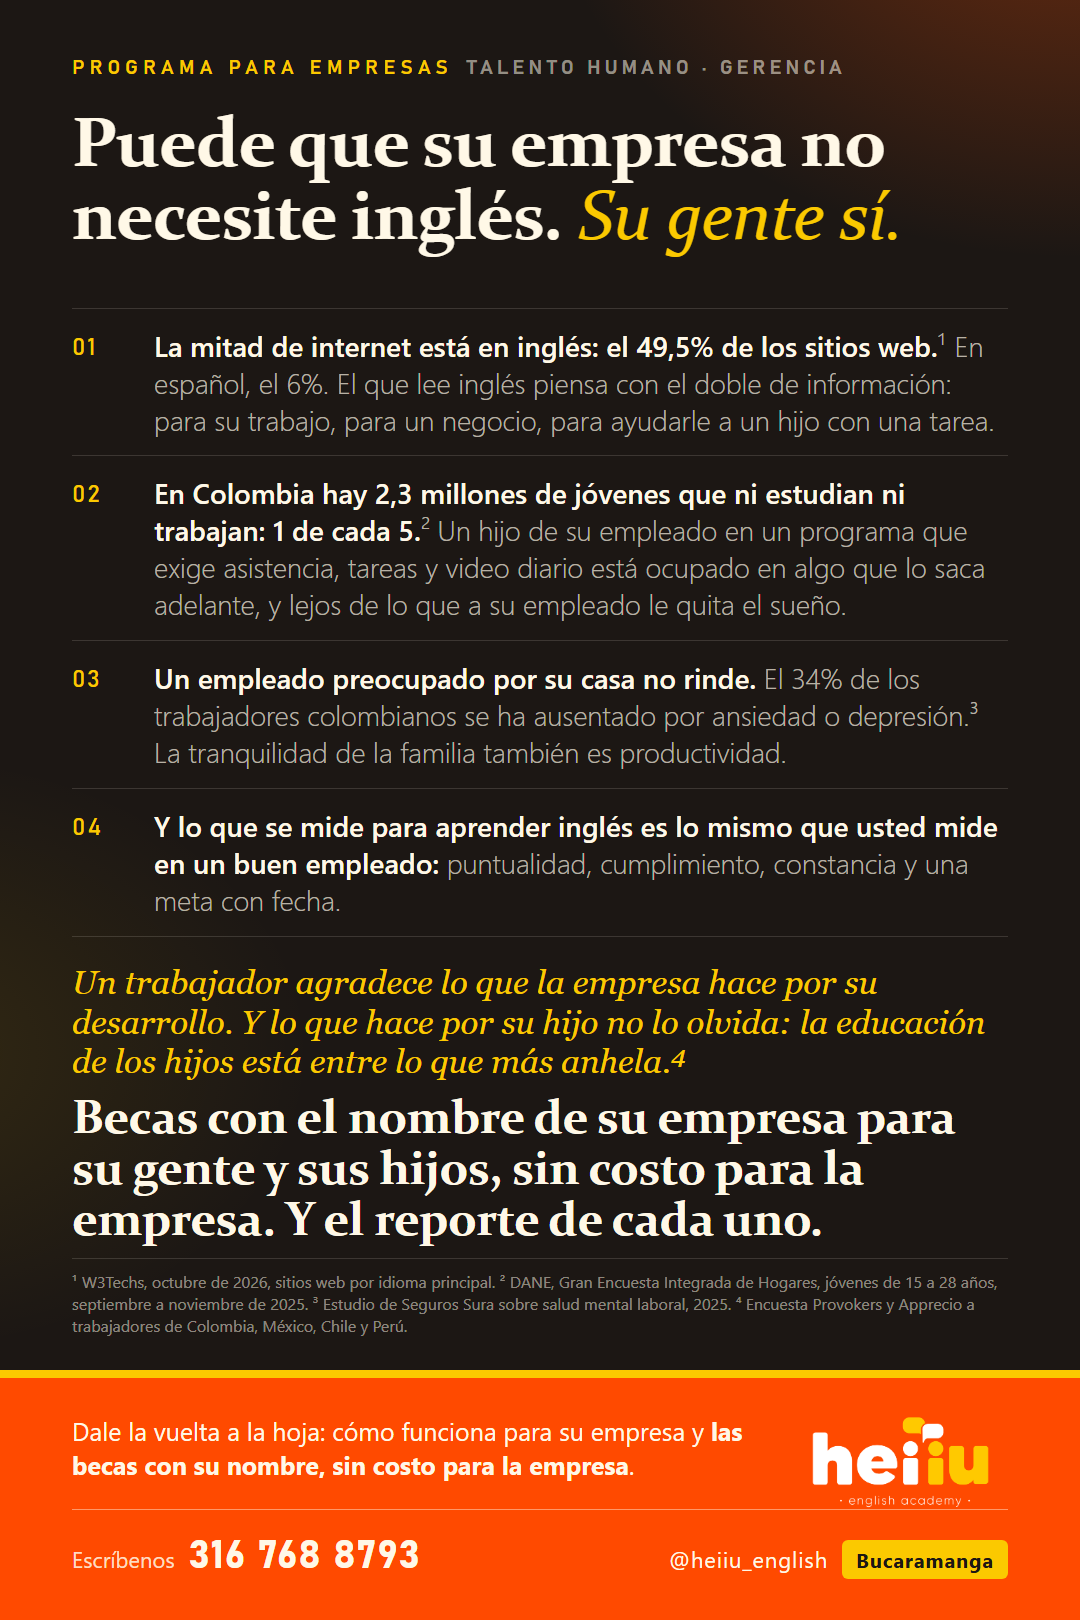
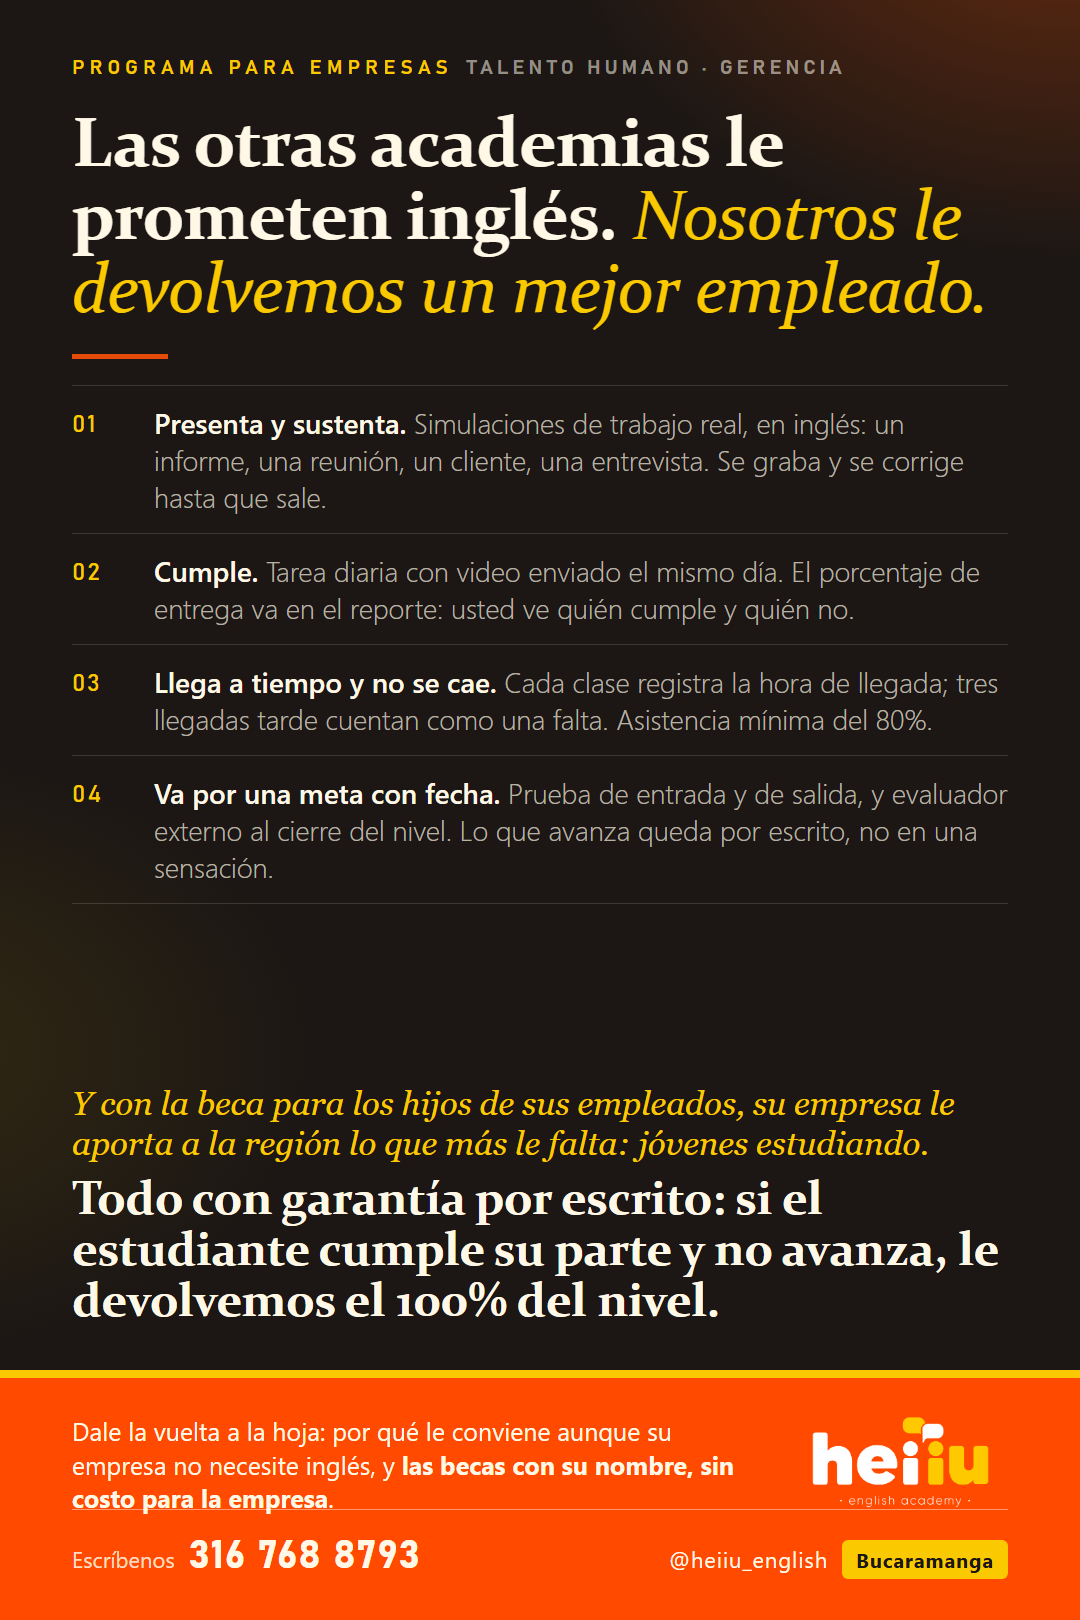
Pieza empresas volteada: frente = le devolvemos un mejor empleado (4 competencias medibles, beca para hijos aporta a la region, garantia); respaldo = por que le conviene aunque no necesite ingles (datos con fuente, gratitud, trato); copia a John tolera archivo abierto

diff --git a/generadores/comercial/gen_piezas_conciencia.py b/generadores/comercial/gen_piezas_conciencia.py
@@ -237,33 +237,32 @@ PIEZAS = {
              ('PARA TU EMPRESA', 'Becas con el nombre de la clínica, el consultorio o la empresa para su equipo, <b>sin costo para la empresa</b>. Pregunta por el programa de alianzas.', False)],
         band='Grupos para equipos o programa individual. <b>Escríbenos y agenda tu asesoría.</b>',
         band_px=290),
-    'EMPRESAS_FRENTE': dict(   # pedido del gerente de alianzas 25/10/2026; angulo de gerencia: bienestar del empleado y su familia, que vuelve a la empresa; de usted
+    'EMPRESAS_FRENTE': dict(   # tesis del gerente de alianzas (25/10/2026): le devolvemos un mejor empleado, y se lo demostramos; de usted
         compact=True, label='PROGRAMA PARA EMPRESAS', sub='TALENTO HUMANO · GERENCIA',
-        h1='Puede que su empresa no necesite inglés. <em>Su gente sí.</em>',
-        st=[('<b>La mitad de internet está en inglés: el 49,5% de los sitios web.</b>¹ En español, el 6%. El que lee inglés piensa con el doble de información: para su trabajo, para un negocio, para ayudarle a un hijo con una tarea.'),
-            ('<b>En Colombia hay 2,3 millones de jóvenes que ni estudian ni trabajan: 1 de cada 5.</b>² Un hijo de su empleado en un programa que exige asistencia, tareas y video diario está ocupado en algo que lo saca adelante, y lejos de lo que a su empleado le quita el sueño.'),
-            ('<b>Un empleado preocupado por su casa no rinde.</b> El 34% de los trabajadores colombianos se ha ausentado por ansiedad o depresión.³ La tranquilidad de la familia también es productividad.'),
-            ('<b>Y lo que se mide para aprender inglés es lo mismo que usted mide en un buen empleado:</b> puntualidad, cumplimiento, constancia y una meta con fecha.')],
-        lead='Un trabajador agradece lo que la empresa hace por su desarrollo. Y lo que hace por su hijo no lo olvida: la educación de los hijos está entre lo que más anhela.⁴',
-        big='Becas con el nombre de su empresa para su gente y sus hijos, sin costo para la empresa. Y el reporte de cada uno.',
+        h1='Las otras academias le prometen inglés. <em>Nosotros le devolvemos un mejor empleado.</em>',
+        st=[('<b>Presenta y sustenta.</b> Simulaciones de trabajo real, en inglés: un informe, una reunión, un cliente, una entrevista. Se graba y se corrige hasta que sale.'),
+            ('<b>Cumple.</b> Tarea diaria con video enviado el mismo día. El porcentaje de entrega va en el reporte: usted ve quién cumple y quién no.'),
+            ('<b>Llega a tiempo y no se cae.</b> Cada clase registra la hora de llegada; tres llegadas tarde cuentan como una falta. Asistencia mínima del 80%.'),
+            ('<b>Va por una meta con fecha.</b> Prueba de entrada y de salida, y evaluador externo al cierre del nivel. Lo que avanza queda por escrito, no en una sensación.')],
+        lead='Y con la beca para los hijos de sus empleados, su empresa le aporta a la región lo que más le falta: jóvenes estudiando.',
+        big='Todo con garantía por escrito: si el estudiante cumple su parte y no avanza, le devolvemos el 100% del nivel.',
         big2='',
-        fn='¹ W3Techs, octubre de 2026, sitios web por idioma principal. ² DANE, Gran Encuesta Integrada de Hogares, jóvenes de 15 a 28 años, septiembre a noviembre de 2025. ³ Estudio de Seguros Sura sobre salud mental laboral, 2025. ⁴ Encuesta Provokers y Apprecio a trabajadores de Colombia, México, Chile y Perú.',
-        band='Dale la vuelta a la hoja: cómo funciona para su empresa y <b>las becas con su nombre, sin costo para la empresa</b>.',
+        band='Dale la vuelta a la hoja: por qué le conviene aunque su empresa no necesite inglés, y <b>las becas con su nombre, sin costo para la empresa</b>.',
         band_px=250),
-    'EMPRESAS_RESPALDO': dict(
-        compact=True, theme='light', label='ASÍ FUNCIONA PARA SU EMPRESA', sub='BECAS CON SU NOMBRE · SIN COSTO PARA LA EMPRESA',
-        h1='Inglés con hábitos de trabajo. <em>Y con reporte.</em>',
-        intro=('Casi todas las academias prometen lo mismo: inglés rápido, salones bonitos, una metodología. Nosotros entrenamos, y se lo mostramos: cada colaborador, o el hijo que él postule, entra con un video, graba uno corto cada día y sale con otro. '
-               'Entre uno y otro hay asistencia registrada, puntualidad anotada y tareas entregadas. <b>Eso es lo que su empresa recibe en el reporte.</b> El trato, en una frase:'),
+    'EMPRESAS_RESPALDO': dict(   # por que le conviene aunque no necesite ingles: bienestar del empleado y su familia (datos con fuente), gratitud, el trato
+        compact=True, theme='light', label='AUNQUE SU EMPRESA NO NECESITE INGLÉS', sub='BECAS CON SU NOMBRE · SIN COSTO PARA LA EMPRESA',
+        h1='Puede que su empresa no necesite inglés. <em>Su gente sí.</em>',
+        intro='Un trabajador agradece lo que la empresa hace por su desarrollo. Y lo que hace por su hijo no lo olvida: <b>la educación de los hijos está entre lo que más anhela.</b>⁴ El trato, en una frase:',
         quote=('El colaborador firma su contrato y asume sus condiciones, para él o para su hijo; la empresa no asume ninguna obligación económica. La empresa postula, recibe el reporte periódico y entrega los certificados de beca con su nombre. '
                'Y a cada estudiante le firmamos lo mismo que a todos: <b>si cumple su parte y no avanza, le devolvemos el 100% del nivel.</b>'),
         cite='GERENCIA · HEIIU ENGLISH ACADEMY',
-        after='¿Y si un colaborador no cumple? Usted también se entera: el reporte lo dice. Y cuando su empresa busque gente, <b>le referimos estudiantes con ese mismo historial de cumplimiento</b>: videos entregados, puntualidad y tareas, con su autorización.',
-        st=[], lead='', big='', big2='',
-        why=[('PRESENTAR Y SUSTENTAR', 'Simulaciones de trabajo real, en inglés: presentar un informe, llevar una reunión, atender a un cliente, pasar una entrevista. Se graba y se corrige.', False),
-             ('CUMPLIMIENTO MEDIDO', 'Tarea diaria con video enviado el mismo día. El porcentaje de entrega va en el reporte: <b>usted ve quién cumple y quién no</b>. Si el estudiante es un hijo, el reporte también llega a la casa.', False),
-             ('PUNTUALIDAD Y CONSTANCIA', 'Cada clase registra la hora de llegada; tres llegadas tarde cuentan como una falta. Asistencia mínima del 80% para la garantía. <b>Los mismos hábitos que usted pide en su empresa.</b>', False),
-             ('ORIENTACIÓN AL LOGRO', 'Meta por nivel con prueba de entrada y de salida, y evaluador externo al final. Lo que avanza cada colaborador <b>queda por escrito</b>, no en una sensación.', False)],
+        st=[('<b>La mitad de internet está en inglés: el 49,5% de los sitios web.</b>¹ En español, el 6%. El que lee inglés piensa con el doble de información.'),
+            ('<b>1 de cada 5 jóvenes en Colombia ni estudia ni trabaja: 2,3 millones.</b>² Un hijo de su empleado en un programa que exige asistencia y video diario está ocupado en algo que lo saca adelante.'),
+            ('<b>Un empleado preocupado por su casa no rinde.</b> El 34% de los trabajadores colombianos se ha ausentado por ansiedad o depresión.³')],
+        lead='¿Y si un colaborador no cumple? Usted también se entera: el reporte lo dice. Y cuando busque gente, le referimos estudiantes con ese historial, con su autorización.',
+        big='',
+        big2='',
+        fn='¹ W3Techs, octubre de 2026, sitios web por idioma principal. ² DANE, Gran Encuesta Integrada de Hogares, jóvenes de 15 a 28 años, septiembre a noviembre de 2025. ³ Estudio de Seguros Sura sobre salud mental laboral, 2025. ⁴ Encuesta Provokers y Apprecio a trabajadores de Colombia, México, Chile y Perú.',
         band='Becas con el nombre de su empresa para su gente y sus hijos, <b>sin costo para la empresa</b>. Agende una reunión de 20 minutos.',
         band_px=290),
     '4_PADRES': dict(
@@ -351,7 +350,7 @@ def render(nombre, c):
     os.makedirs(OUTDIR, exist_ok=True); os.makedirs(COPIA, exist_ok=True)
     for p in (out, os.path.join(COPIA, os.path.basename(out))):
         try: shutil.copy(png, p); print('OK', p)
-        except PermissionError: p2 = p.replace('.png', '_v2.png'); shutil.copy(png, p2); print('ABIERTA ->', p2)
+        except OSError: p2 = p.replace('.png', '_v2.png'); shutil.copy(png, p2); print('ABIERTA ->', p2)   # abierta en el visor: PermissionError o errno 22
 
 
 def sangrado(nombre, src, mm=3, ppp=274):
